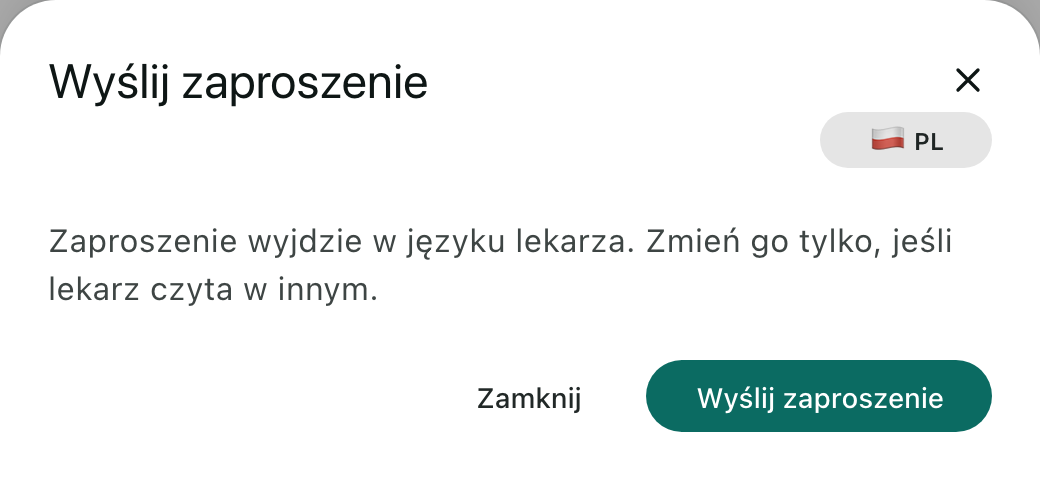
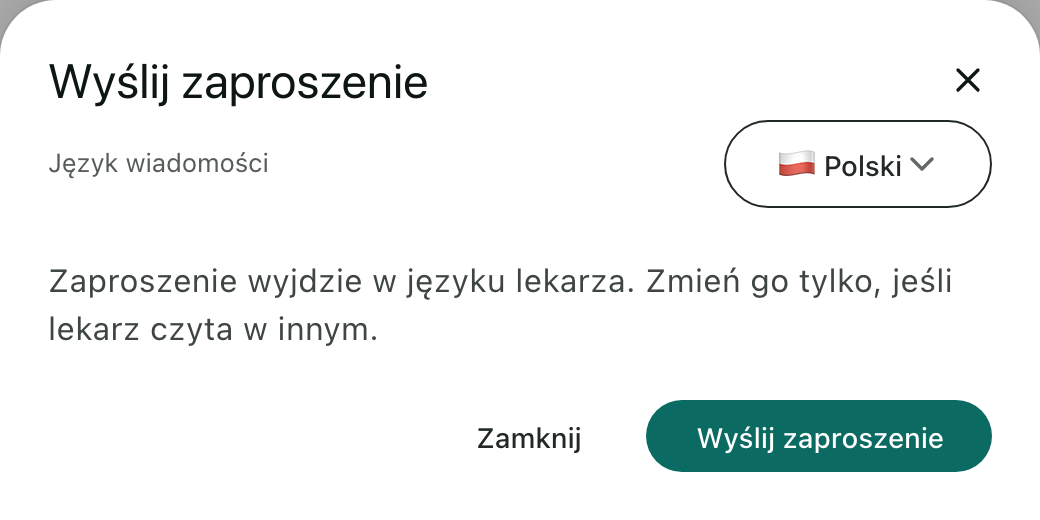
NEO-272: language picker is a labelled control with the language name, chevron, 44px target and a check on the selected item

diff --git a/apps/pwa/src/components/questionnaire/SendEmailDialog.vue b/apps/pwa/src/components/questionnaire/SendEmailDialog.vue
@@ -209,9 +209,7 @@ async function copyLink() {
   color: rgba(var(--v-theme-on-surface), 0.6);
 }
 .send-email__header-slot {
-  display: flex;
-  justify-content: flex-end;
-  padding: 0 24px;
+  padding: 4px 24px 0;
 }
 .send-email__header-slot:empty {
   display: none;

diff --git a/apps/pwa/src/components/practitioner/InviteEmailDialog.vue b/apps/pwa/src/components/practitioner/InviteEmailDialog.vue
@@ -60,9 +60,7 @@ watch(
 
 <style scoped>
 .invite-email__header-slot {
-  display: flex;
-  justify-content: flex-end;
-  padding: 0 24px;
+  padding: 4px 24px 0;
 }
 .invite-email__body {
   margin: 0;
